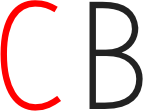
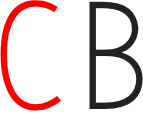
FIX: retina images

diff --git a/docs/index.html b/docs/index.html
@@ -117,6 +117,8 @@
       display: block;
       margin-top: 0.5em;
       margin-bottom: 1.7em;
+      height: 57px;
+      width: auto;
     }
 
     /* thx github */
